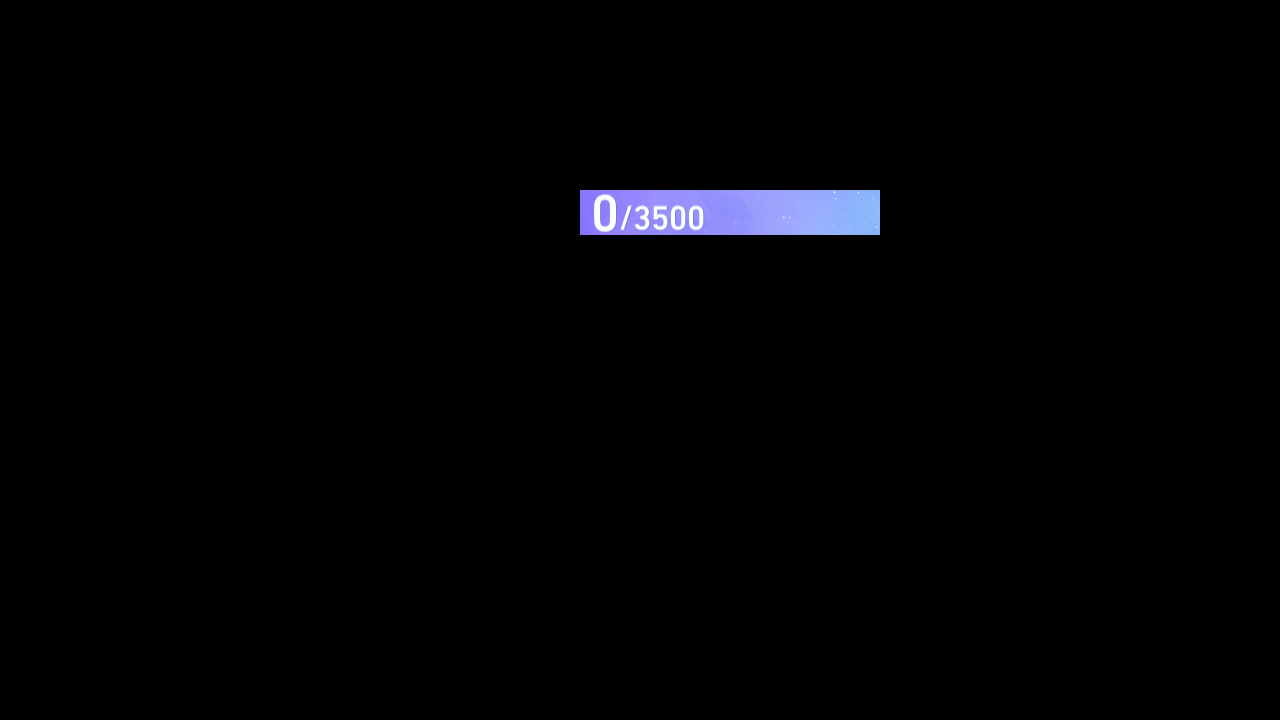
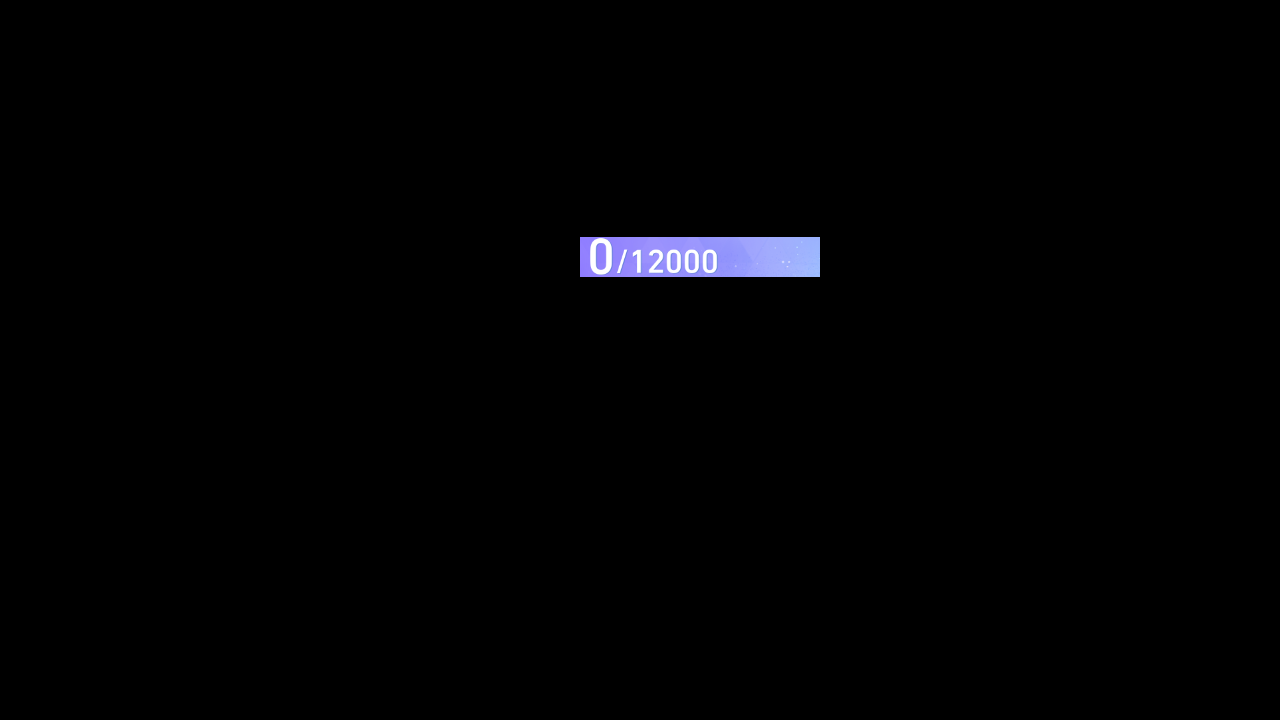
Upd: Dungeon ui assets

Changed region(s): [[0.4375, 0.2444, 0.6875, 0.3972]]

diff --git a/tasks/dungeon/assets/assets_dungeon_ui.py b/tasks/dungeon/assets/assets_dungeon_ui.py
@@ -27,10 +27,10 @@ DAILY_TRAINING_LOADED = ButtonWrapper(
     name='DAILY_TRAINING_LOADED',
     share=Button(
         file='./assets/share/dungeon/ui/DAILY_TRAINING_LOADED.png',
-        area=(919, 583, 926, 590),
-        search=(899, 563, 946, 610),
-        color=(61, 55, 48),
-        button=(919, 583, 926, 590),
+        area=(1143, 546, 1158, 561),
+        search=(1123, 526, 1178, 581),
+        color=(63, 56, 50),
+        button=(1143, 546, 1158, 561),
     ),
 )
 OCR_DUNGEON_LIST = ButtonWrapper(
@@ -57,10 +57,10 @@ OCR_SIMUNI_POINT = ButtonWrapper(
     name='OCR_SIMUNI_POINT',
     share=Button(
         file='./assets/share/dungeon/ui/OCR_SIMUNI_POINT.png',
-        area=(580, 190, 880, 235),
-        search=(560, 170, 900, 255),
-        color=(158, 164, 252),
-        button=(580, 190, 880, 235),
+        area=(580, 237, 820, 277),
+        search=(560, 217, 840, 297),
+        color=(166, 168, 252),
+        button=(580, 237, 820, 277),
     ),
 )
 OPERATION_BRIEFING_CHECK = ButtonWrapper(
@@ -108,7 +108,7 @@ SURVIVAL_INDEX_LOADED = ButtonWrapper(
     share=Button(
         file='./assets/share/dungeon/ui/SURVIVAL_INDEX_LOADED.png',
         area=(451, 286, 476, 302),
-        search=(450, 271, 488, 311),
+        search=(449, 263, 489, 356),
         color=(142, 150, 197),
         button=(451, 286, 476, 302),
     ),
